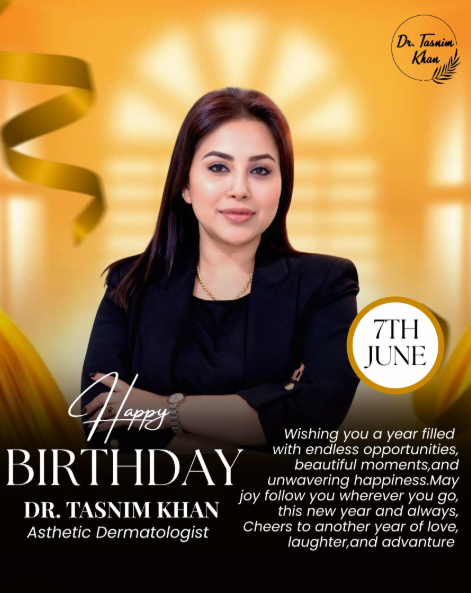
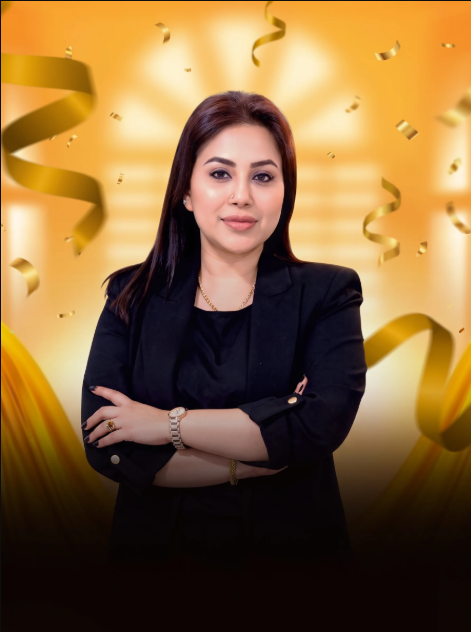
final hero

diff --git a/src/styles/global.css b/src/styles/global.css
@@ -212,39 +212,56 @@ button {
 /* ==================== HERO ==================== */
 .hero {
   position: relative;
-  min-height: 100vh;
   display: flex;
-  align-items: center;
-  padding: 7rem 2rem 4rem;
+  align-items: stretch;
+  min-height: 90vh;
   overflow: hidden;
 }
 
+/* Left text panel — dark bg so white text stays readable */
+.hero__content {
+  position: relative;
+  z-index: 2;
+  width: 50%;
+  display: flex;
+  flex-direction: column;
+  justify-content: center;
+  padding: 4rem 4rem;
+  background: var(--primary-800);
+}
+
+/* Right-side image panel */
 .hero__bg {
-  position: absolute;
-  inset: 0;
-  z-index: 0;
+  position: relative;
+  width: 50%;
+  height: auto;
+  overflow: hidden;
 }
 
 .hero__bg img {
   width: 100%;
   height: 100%;
   object-fit: cover;
-  filter: brightness(0.80);
+  object-position: center;
+  display: block;
 }
 
+/* Subtle gradient so the image edge blends into the dark panel */
 .hero__bg::after {
   content: '';
   position: absolute;
   inset: 0;
-  background: linear-gradient(135deg, rgba(31, 66, 62, 0.72) 0%, rgba(30, 28, 26, 0.5) 100%);
+  background: linear-gradient(
+    to right,
+    rgba(31, 66, 62, 0.35) 0%,
+    rgba(31, 66, 62, 0) 18%
+  );
+  pointer-events: none;
 }
 
-.hero__content {
-  position: relative;
-  z-index: 1;
-  max-width: var(--max-width);
-  margin: 0 auto;
-  width: 100%;
+/* Not used in split layout, kept hidden to avoid affecting other sections */
+.hero__overlay {
+  display: none;
 }
 
 .hero__eyebrow {
@@ -260,12 +277,11 @@ button {
 }
 
 .hero__title {
-  font-size: clamp(2.5rem, 6vw, 4.5rem);
+  font-size: clamp(2.25rem, 4.5vw, 3.5rem);
   font-weight: 600;
   color: var(--neutral-0);
-  line-height: 1.1;
+  line-height: 1.15;
   margin-bottom: 1.25rem;
-  max-width: 720px;
   opacity: 0;
   animation: fadeUp 800ms 400ms forwards;
 }
@@ -276,9 +292,9 @@ button {
 }
 
 .hero__subtitle {
-  font-size: 1.1rem;
+  font-size: 1.05rem;
   color: rgba(255, 255, 255, 0.82);
-  max-width: 520px;
+  max-width: 480px;
   margin-bottom: 2rem;
   font-weight: 300;
   line-height: 1.7;
@@ -330,9 +346,9 @@ button {
 .hero__scroll {
   position: absolute;
   bottom: 2rem;
-  left: 50%;
+  left: 25%;
   transform: translateX(-50%);
-  z-index: 1;
+  z-index: 2;
   color: rgba(255, 255, 255, 0.5);
   font-size: 0.75rem;
   letter-spacing: 0.1em;
@@ -358,6 +374,28 @@ button {
 @keyframes bounce {
   0%, 100% { transform: translateX(-50%) translateY(0); }
   50% { transform: translateX(-50%) translateY(8px); }
+}
+
+/* Responsive: stack on smaller screens */
+@media (max-width: 900px) {
+  .hero {
+    flex-direction: column;
+    min-height: auto;
+  }
+
+  .hero__content {
+    width: 100%;
+    padding: 3rem 1.5rem;
+  }
+
+  .hero__bg {
+    width: 100%;
+    height: 320px;
+  }
+
+  .hero__scroll {
+    left: 50%;
+  }
 }
 
 /* ==================== SECTION BASE ==================== */
@@ -1023,10 +1061,6 @@ button {
     padding: 3.5rem 1.25rem;
   }
 
-  .hero {
-    padding: 6rem 1.25rem 3rem;
-  }
-
   .credentials__inner {
     grid-template-columns: repeat(2, 1fr);
     gap: 1rem;
@@ -1058,4 +1092,3 @@ button {
     text-align: center;
   }
 }
-
